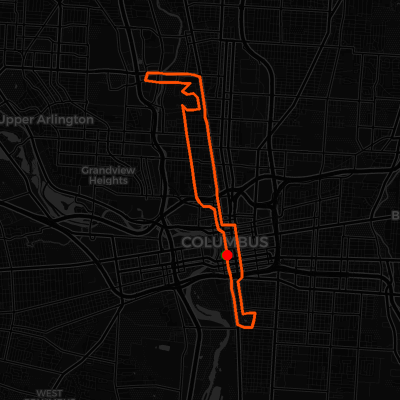
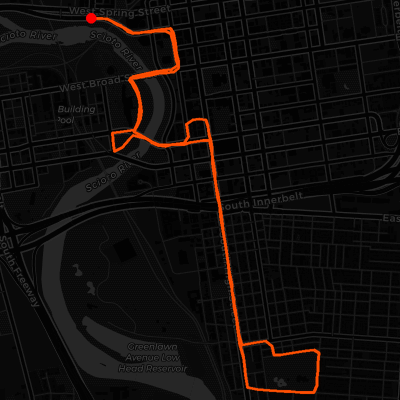
Update running stats [skip ci]

diff --git a/README.md b/README.md
@@ -19,33 +19,33 @@
 <!-- STRAVA_ACTIVITIES:START -->
 | Date | Activity | Distance | Time | Pace | Elevation |
 |------|----------|----------|------|------|----------|
+| June 01, 2025 | 2025 Columbus 10k with Molly! 🥳 | 6.30 mi | 01:16:23 | 12:07/mi | 171 ft |
 | May 30, 2025 | 30 min @ Z2 | 2.00 mi | 30:06 | 15:00/mi | 46 ft |
 | May 29, 2025 | 1 hour @ Z2 | 4.08 mi | 01:00:07 | 14:44/mi | 118 ft |
 | May 28, 2025 | 1 hour @ Z2 | 4.21 mi | 59:59 | 14:15/mi | 115 ft |
 | May 26, 2025 | Lunch Run - 3 mi @ Z3 | 3.00 mi | 37:36 | 12:30/mi | 92 ft |
-| May 24, 2025 | Lunch Run - 5 mi @ Z3 | 5.00 mi | 01:05:25 | 13:05/mi | 79 ft |
 <!-- STRAVA_ACTIVITIES:END -->
 
 ## 🏁 Latest Race Performance
 
 <!-- STRAVA_RACE:START -->
-### 2025 Capital City Half Marathon
+### 2025 Columbus 10k with Molly! 🥳
 
 <img align="left" width="200" height="200" src="/images/race_map.png">
 
-**Date**: April 26, 2025  
-**Distance**: 13.27 mi  
-**Time**: 01:40:36  
-**Pace**: 7:34/mi  
+**Date**: June 01, 2025  
+**Distance**: 6.30 mi  
+**Time**: 01:16:23  
+**Pace**: 12:07/mi  
 <!-- STRAVA_RACE:END -->
 
 ## 📈 Year to Date Stats
 
 <!-- STRAVA_YTD:START -->
-- **Distance**: 268.7 mi
-- **Elevation**: 5728 ft
-- **Time**: 46h 56m
-- **Activities**: 57
+- **Distance**: 275.0 mi
+- **Elevation**: 5898 ft
+- **Time**: 48h 12m
+- **Activities**: 58
 <!-- STRAVA_YTD:END -->
 
 ---
